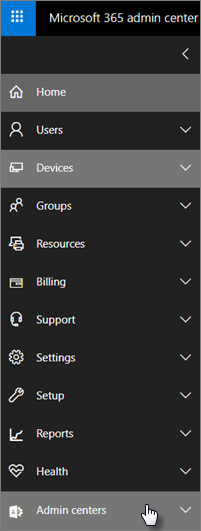
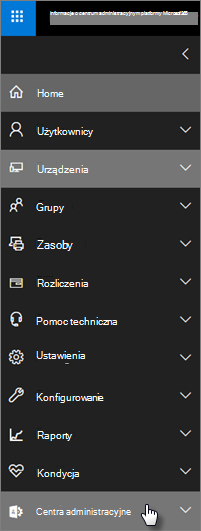
commit translated contents

diff --git a/microsoft-365/business/security-features.md b/microsoft-365/business/security-features.md
@@ -24,18 +24,18 @@ search.appverid:
 - MET150
 ms.assetid: c123694a-1efb-459e-a8d5-2187975373dc
 description: Dowiedz się więcej o funkcjach zabezpieczeń, które są dostępne w p Microsoft 365 Business Premium zabezpieczania danych na komputerach, telefonach i tabletach.
-ms.openlocfilehash: 974204e100d3228f78406aca4acce67a889b08c3
-ms.sourcegitcommit: 05f40904f8278f53643efa76a907968b5c662d9a
+ms.openlocfilehash: 50b74ed18d641e8de38db3284c3ef3abf319825f4f7dbe02b6575f6c0fbc6f85
+ms.sourcegitcommit: a1b66e1e80c25d14d67a9b46c79ec7245d88e045
 ms.translationtype: MT
 ms.contentlocale: pl-PL
-ms.lasthandoff: 04/30/2021
-ms.locfileid: "52113471"
+ms.lasthandoff: 08/05/2021
+ms.locfileid: "53887583"
 ---
 # <a name="microsoft-365-business-premium-security-and-compliance-features"></a>Microsoft 365 Business Premium funkcji zabezpieczeń i zgodności
 
 Microsoft 365 Business Premium oferuje uproszczone funkcje zabezpieczeń chroniące dane na komputerach, telefonach i tabletach.
     
-## <a name="microsoft-365-admin-center-security-features"></a>Microsoft 365 funkcje zabezpieczeń centrum administracyjnego
+## <a name="microsoft-365-admin-center-security-features"></a>centrum administracyjne platformy Microsoft 365 funkcje zabezpieczeń
 
 W centrum administracyjnym można zarządzać wieloma Microsoft 365 Business Premium zabezpieczeń, co zapewnia uproszczony sposób ich włączanie i wyłączanie. W centrum administracyjnym możesz wykonać następujące czynności:
   
@@ -49,7 +49,7 @@ W centrum administracyjnym można zarządzać wieloma Microsoft 365 Business Pre
     
 - [Skonfiguruj ustawienia ochrony urządzeń dla Windows 10 urządzeniach.](protection-settings-for-windows-10-pcs.md) 
     
-    Możesz [włączyć szyfrowanie funkcja BitLocker](/windows/security/information-protection/bitlocker/bitlocker-frequently-asked-questions) chronić dane w przypadku zgubienia lub kradzieży urządzenia oraz włączyć funkcję [Windows Exploit Guard,](/windows/security/threat-protection/microsoft-defender-atp/enable-exploit-protection) aby zapewnić zaawansowaną ochronę przed oprogramowaniem wymuszającym okup. 
+    Możesz włączyć szyfrowanie [BitLocker,](/windows/security/information-protection/bitlocker/bitlocker-frequently-asked-questions) aby chronić dane w przypadku zgubienia lub kradzieży urządzenia, oraz włączyć funkcję [Windows Exploit Guard,](/windows/security/threat-protection/microsoft-defender-atp/enable-exploit-protection) aby zapewnić zaawansowaną ochronę przed oprogramowaniem wymuszającym okup. 
     
 - [Usuwanie firmowych danych z urządzeń](remove-company-data.md)
     
@@ -73,8 +73,8 @@ Dostępne są zaawansowane funkcje Microsoft 365 Business Premium, które pomaga
 
 - **[Pełne możliwości usługi Intune w portalu Azure Portal](/mem/intune/fundamentals/what-is-intune)**
     
-    Dostęp do centrum administracyjnego usługi Intune w portalu Azure umożliwia skonfigurowanie dodatkowych funkcji zabezpieczeń, takich jak zarządzanie urządzeniami MacOS, iPhone i Android, oraz zaawansowane zarządzanie urządzeniami dla usługi Windows, które nie są dostępne za pośrednictwem centrum administracyjnego usługi Microsoft 365.
-- **Taki [sam dostęp warunkowy](/azure/active-directory/conditional-access/overview) jak plan Azure AD Premium P1**
+    Dostęp do centrum administracyjnego usługi Intune w portalu Azure umożliwia skonfigurowanie dodatkowych funkcji zabezpieczeń, takich jak zarządzanie urządzeniami MacOS, iPhone i Android, oraz zaawansowane zarządzanie urządzeniami dla systemu Windows, które nie są dostępne za pośrednictwem usługi centrum administracyjne platformy Microsoft 365.
+- **Taki [sam dostęp warunkowy,](/azure/active-directory/conditional-access/overview) jak Azure AD — wersja Premium P1 dostępu**
 
 
     Dostęp warunkowy pomaga chronić organizację przed ryzykiem logowania, dostępem do nieoczekiwanej sieci lub ustawień regionalnych, próbami dostępu przed ryzykowymi typami urządzeń itp. Zasady dostępu warunkowego są wymuszane po zakończeniu pierwszego uwierzytelniania i są w nim używane sygnały z pierwszego zdarzenia uwierzytelniania w celu określenia, czy próba dostępu powinna zostać zatwierdzona, odrzucona, czy też jest wymagany więcej dowodu (na przykład druga forma identyfikacji).
@@ -108,7 +108,7 @@ Subskrypcja Microsoft 365 Business Premium zawiera funkcje, które pomagają w u
 
    Microsoft 365 Business Premium zawiera wszystkie funkcje usługi [Azure Information Protection Plan 1.](https://go.microsoft.com/fwlink/p/?linkid=871407) W tym planie  możesz tworzyć etykiety wrażliwości, które umożliwiają kontrolowanie dostępu do informacji poufnych w wiadomościach e-mail i dokumentach, przy użyciu kontrolek, takich jak "Nie przesyłaj dalej" i "Nie kopiować". Możesz również klasyfikować informacje poufne jako "poufne" oraz określać, w jaki sposób można udostępniać sklasyfikowane informacje poza firmą i wewnątrz firmy. Enterprise e-mail i dokumentów klasy korporacyjnej można łatwo stosować do wiadomości e-mail i dokumentów, aby zachować prywatne informacje. Możesz również zainstalować dodatek klienta usługi Azure Information Protection dla Office aplikacji. Aby uzyskać więcej informacji, zobacz Ujednolicony klient etykiet usługi [Azure Information Protection.](/azure/information-protection/rms-client/unifiedlabelingclient-version-release-history) W przypadku etykiet wrażliwości zainstaluj **AzInfoProtection_UL.exe**.
 
-Tymi funkcjami możesz zarządzać w Centrum &amp; zgodności zabezpieczeń i w centrum administracyjnym usługi Intune. Z czasem uproszczone kontrolki zostaną dodane do centrum Microsoft 365 administracyjnego.
+Tymi funkcjami możesz zarządzać w Centrum &amp; zgodności zabezpieczeń i w centrum administracyjnym usługi Intune. Z czasem uproszczone kontrolki zostaną dodane do centrum administracyjne platformy Microsoft 365.
   
     
 ## <a name="faq"></a>Często zadawane pytania
@@ -123,6 +123,6 @@ Tak, te funkcje są dostępne na wszystkich rynkach, na których Microsoft 365 B
     
 2. W lewym okienku wyszukiwania znajdź pozycję **Centra administracyjne** i rozwiń ją. 
     
-    ![W lewym okienku narracji w centrum Microsoft 365 wybierz pozycję Centra administracyjne.](../media/fa4484f8-c637-45fd-a7bd-bdb3abfd6c03.png)
+    ![W lewym okienku narracji w centrum administracyjne platformy Microsoft 365 wybierz pozycję Centra administracyjne.](../media/fa4484f8-c637-45fd-a7bd-bdb3abfd6c03.png)
   
 3. Wybierz **pozycję Zgodność &amp; zabezpieczeń,** aby przejść do Centrum &amp; zgodności zabezpieczeń.

diff --git a/microsoft-365/business/install-office-on-windows-10-during-setup.md b/microsoft-365/business/install-office-on-windows-10-during-setup.md
@@ -25,18 +25,18 @@ search.appverid:
 - MET150
 - MOE150
 ms.assetid: 5ffd5327-a83a-4d53-94d6-22ba2f9fd090
-description: Dowiedz się, jak dzięki usłudze Microsoft 365 Business Premium automatycznie upewnić się, że użytkownicy mają najnowszą wersję pakietu Office na wszystkich urządzeniach z systemem Windows 10.
-ms.openlocfilehash: d3c62eb42ea73c7af6df6012dbc9488828cd1ba8
-ms.sourcegitcommit: 53acc851abf68e2272e75df0856c0e16b0c7e48d
+description: Dowiedz się, jak dzięki Microsoft 365 Business Premium automatycznie upewnić się, że użytkownicy mają najnowszą wersję pakietu Office wszystkich swoich Windows 10 urządzeniach.
+ms.openlocfilehash: 869a44196e93ed0c9f7f6f64b21fe9b2302e9a48c4b0bdcdc3a09d28bb954d1c
+ms.sourcegitcommit: a1b66e1e80c25d14d67a9b46c79ec7245d88e045
 ms.translationtype: MT
 ms.contentlocale: pl-PL
-ms.lasthandoff: 04/02/2021
-ms.locfileid: "51580179"
+ms.lasthandoff: 08/05/2021
+ms.locfileid: "53887548"
 ---
 # <a name="install-office-on-windows-10-during-setup"></a>Instalowanie pakietu Office na urządzeniach z systemem Windows 10 podczas instalacji
 
 ![Transparent z punktem https://aka.ms/aboutM365preview .](../media/m365admincenterchanging.png)
 
-To ustawienie jest domyślnie wyłączone. Możesz ją włączyć, aby upewnić się, że użytkownicy mają najnowszą wersję pakietu Office na wszystkich swoich urządzeniach z systemem Windows 10, ale najpierw upewnij się, że są spełnione wszystkie wymagania wstępne. Aby wypychać oprogramowanie na urządzenie, użytkownicy muszą mieć licencję na usługę Microsoft 365 Business Premium, a dodatkowo muszą zostać spełnione inne wymagania opisane w tece Przygotowywanie klienta pakietu Office do wdrożenia za pomocą usługi [Microsoft 365 Business Premium.](prepare-for-office-client-deployment.md)
+To ustawienie jest domyślnie wyłączone. Możesz ją włączyć, aby upewnić się, że użytkownicy mają najnowszą wersję pakietu Office na wszystkich swoich urządzeniach z systemem Windows 10, ale najpierw sprawdź, czy są spełnione wszystkie wymagania wstępne. Użytkownicy muszą mieć licencję na Microsoft 365 Business Premium tego ustawienia, aby wypychać oprogramowanie na urządzenie, oprócz innych wymagań opisanych w te sposób przygotowywanie klienta do wdrożenia Office przez [Microsoft 365 Business Premium.](prepare-for-office-client-deployment.md)
   
 Zalecane jest zaakceptowanie domyślnego ustawienia podczas instalacji.

diff --git a/microsoft-365/business/migrate-to-microsoft-365-business.md b/microsoft-365/business/migrate-to-microsoft-365-business.md
@@ -24,12 +24,12 @@ search.appverid:
 - MET150
 ms.assetid: 5b4ba843-24b8-4526-8e1f-f9b9eab89d06
 description: Dowiedz się, jak Microsoft 365 Business Standard i Microsoft 365 Business Premium, oraz jak można uaktualnić system do Microsoft 365 Business Premium.
-ms.openlocfilehash: 0968b877820590987f6f3ceca3efbd106b62cbd1
-ms.sourcegitcommit: a05f61a291eb4595fa9313757a3815b7f217681d
+ms.openlocfilehash: 563df2610351e2c025c618086c038750999c03df60b93b757865f76fbf86c834
+ms.sourcegitcommit: a1b66e1e80c25d14d67a9b46c79ec7245d88e045
 ms.translationtype: MT
 ms.contentlocale: pl-PL
-ms.lasthandoff: 05/29/2021
-ms.locfileid: "52705495"
+ms.lasthandoff: 08/05/2021
+ms.locfileid: "53906732"
 ---
 # <a name="upgrade-to-microsoft-365-business-premium-from-microsoft-365-business-standard"></a>Uaktualnianie do Microsoft 365 Business Premium z Microsoft 365 Business Standard
 
